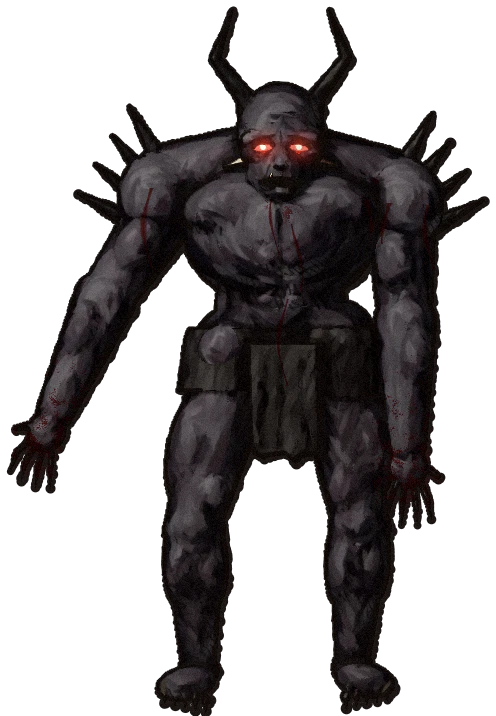
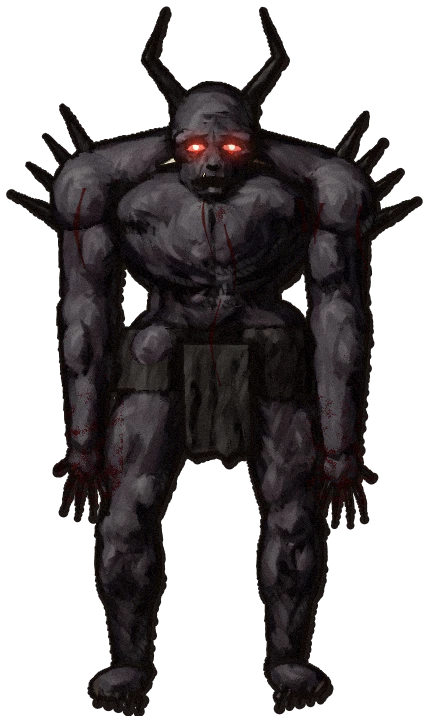
예티·키르뒤 벌어진 팔도 내림
Claude-Session: https://claude.ai/code/session_014cu4eVXMELds87UQUvCgPs

diff --git a/docs/ASSUMPTIONS.md b/docs/ASSUMPTIONS.md
@@ -335,7 +335,7 @@
 | UI6 | desc_ko가 없는 스킬(정수판 대부분)은 대상·피해 유형·거는 상태·재사용을 데이터에서 뽑아 설명줄에 보인다 | 정수 스킬이 무엇을 하는지 알 수 없었다 | `SkillBrief` |
 | UI7 | **전투 화면 = 피어 앤 헝거식 정면 구도**(사용자 요청 2026-10-15, 첨부 스크린샷 4장): 좌우로 마주 보던 카드를 없애고, 어둠 속 빛 웅덩이 위 가운데에 적이 정면으로(덩치 = 크기^0.5, 많으면 함께 줄임), 아래 앞줄에 아군이 뒷모습으로 선다(가운데는 비우고 양옆으로, 다리는 아래 창에 가린다). 아래 창 = 왼쪽 명령 4칸(공격·스킬·방어·아이템) + 오른쪽 파티 창(이름·상태·생명력·영혼력 — 원작 게임의 체력·이성 자리). **행동 정하기(사용자 결정 2026-10-15 "1번 진행")**: 아군 차례가 왔는데 그 사람의 정해 둔 행동이 없으면, 그때 행동을 정하지 않은 아군(직접 조종하는 사람) 전원의 행동을 파티 창 순서대로 먼저 고른다(고르는 사람의 줄·발밑이 밝고, 정한 행동은 그 줄에 "공격 → 고블린 A"처럼 남는다, 명령 칸에서 뒤로 = 앞사람 다시). 다 정하면 순서는 CTB(민첩) 그대로 각자 차례가 올 때 정해 둔 행동을 한다 — 빠른 사람이 한 번 더 차례를 받으면 그 사람만 다시 정한다. 그때 와서 안 되는 행동은 같은 스킬을 다른 적에게 → 기본 공격 → 방어(소환수는 AI 그대로). 지금은 탐험가 혼자라 겉보기는 같고, 동료가 생기면 차이가 난다. 스킬·아이템·대상은 오른쪽 창이 목록(2×3)으로 바뀌고, 대상은 무대에서 발밑 금빛 고리 — 무대의 적을 직접 눌러도 된다. **도주는 스킬 목록 맨 끝**(성공 확률 표시). 적 이름은 머리 위, 생명력은 발밑 가는 막대. 전투 안내는 위 가운데에 최근 두 줄(잠깐 뒤 사라짐, 탐험 기록에도 남음). 몸은 그림 파일이 없어 `CombatFigure`가 그린다(사람형·짐승·덩어리 — 짙은 윤곽, 한쪽 그늘, 퀭한 눈) — 몬스터 원화가 생기면 바꾼다 | 사용자 요청 | `src/ui/combat/*`, `CommandMenu`, `render.json ui.combat_*` |
 | UI8 | **몬스터 전투 일러스트 = 피어 앤 헝거 몬스터 그림풍**(사용자 요청 2026-10-15, 첨부 그림 7장 — 늑대·털옷 사내·피투성이 시체·바위 피부 거인·까마귀 사내·두건 검사·날개 달린 괴물): 손그림 원화가 없어 생성기로 그린다(`tools/paint_monsters.gd` → `assets/monsters/<id>.webp` 52장 + `index.json` 몸 높이). 방식: 몸을 3D 덩어리(캡슐·타원체·판)로 빚어 근육 사이가 골이 지게 녹여 붙이고(`Clay`), 밝은 살 + 적갈색 그늘의 3~4단 붓 칠 띠 · 가려진 경계와 골의 잉크 선 · 어두운 곳 펜 빗금(`Render`) → 털 붓결(`Fur`)·피·때(`Finish`). 자세는 넓은 보폭·체중 실은 다리·늘어뜨린 팔(참고 그림의 시체·까마귀 사내처럼), 네발짐승은 다가오는 3/4 정면(참고 늑대). 원작에 모습 묘사가 없는 몬스터는 이름·데이터 색·크기에서 모습을 정했다(예: 블라터 = 뿔 투구의 저주받은 기사, 드레드피어 = 날개·뿔·몸에 박힌 눈, 웜스톤 = 이빨 아가리의 바위 벌레). 화면에서는 무대가 정한 키를 그림 속 몸 높이(들어 올린 무기·뿔 제외)에 맞춰 줄이고 발을 바닥선에 둔다. 그림이 없는 몬스터는 예전처럼 `CombatFigure` 도형 | 사용자 요청. 이 환경엔 그림 생성 AI·원화가 없다 | 설계 한 항목 = `tools/monster_art/Specs.gd`·`Specs2.gd`의 id 한 줄 → `godot --headless --path . --script res://tools/paint_monsters.gd -- --only=<id>`. 손그림 원화가 생기면 같은 경로에 덮어쓰고 `index.json`의 몸 높이를 고친다 |
-| UI10 | **팔 내림·계층군주 다시 그림**(사용자 요청 2026-10-16): ① 한쪽 팔을 치켜들거나 벌린 9종(카툼바·예티·블라터·고블린 폭탄병·아이언 리자드맨·타룬바스·캠보르미어·고블린 광부·키르뒤)은 그 팔을 몸 옆에 붙여 곧게 내렸다(새 팔 자세 `rest`, 무기를 든 팔은 그대로). ② 드레드피어는 "소환되면 끝장이다 싶은 위압감"이 나도록 첨부 그림(거대한 상반신·털 목도리·눈가린 얼굴·뿔·까마귀 머리·배의 얼굴·날개·아래가 연기로 사라짐)을 따라 전용 생성기 `Lord.gd`로 다시 그렸다 — 사람형 뼈대를 쓰지 않는다. 몸 높이 = 그림 높이 × 0.8(뿔·날개 끝 제외)이라 전투 무대에서 위 안내 줄 뒤로 뿔·날개가 넘치고 날개가 무대 양쪽을 덮는다 | 사용자 요청 | 팔: `Specs.gd`·`Specs2.gd`의 `arm_l`/`arm_r`(`rest` ↔ 예전 값). 드레드피어: `Specs2.gd` `dreadfear`(색·새 머리 수) + `Lord.gd`(모양), 크기 `Specs.body_height`의 `"lord"` 비율 |
+| UI10 | **팔 내림·계층군주 다시 그림**(사용자 요청 2026-10-16): ① 한쪽 팔을 치켜들거나 벌린 9종(카툼바·예티·블라터·고블린 폭탄병·아이언 리자드맨·타룬바스·캠보르미어·고블린 광부·키르뒤)은 그 팔을 몸 옆에 붙여 곧게 내렸다(새 팔 자세 `rest`, 무기를 든 팔은 그대로). 예티·키르뒤는 치켜든 팔과 벌어진 팔이 하나씩이라 두 팔 모두 내렸다(사용자 지적 "벌어진 팔이 그대로"). ② 드레드피어는 "소환되면 끝장이다 싶은 위압감"이 나도록 첨부 그림(거대한 상반신·털 목도리·눈가린 얼굴·뿔·까마귀 머리·배의 얼굴·날개·아래가 연기로 사라짐)을 따라 전용 생성기 `Lord.gd`로 다시 그렸다 — 사람형 뼈대를 쓰지 않는다. 몸 높이 = 그림 높이 × 0.8(뿔·날개 끝 제외)이라 전투 무대에서 위 안내 줄 뒤로 뿔·날개가 넘치고 날개가 무대 양쪽을 덮는다 | 사용자 요청 | 팔: `Specs.gd`·`Specs2.gd`의 `arm_l`/`arm_r`(`rest` ↔ 예전 값). 드레드피어: `Specs2.gd` `dreadfear`(색·새 머리 수) + `Lord.gd`(모양), 크기 `Specs.body_height`의 `"lord"` 비율 |
 | UI9 | **전투 무대 크기**(사용자 요청 2026-10-16 "작은 건 작게 큰 건 크게, 보스는 크게크게"): 무대 키 = 사람 키(무대 높이 × `combat_enemy_height` 0.4) × 몬스터 `size`(전에는 √size라 고블린 0.7이 사람의 84%였다 → 70%). 보스 등급(`combat_boss_ranks` — 수호자·중간 보스·계층군주·변종 수호자)은 크기와 상관없이 위 안내 줄(72px) 바로 아래까지 — 사람 키의 약 2배, 치켜든 무기·뿔은 위로 넘쳐도 된다(이름표는 화면 안으로 당김). 덩치 큰 일반 몬스터는 위 안내 줄 자리(96px)를 남긴다. 적이 서는 바닥선은 무대 높이의 92%(아래 창 바로 위), 아군 뒷모습은 조금 더 아래로(`combat_party_sink` 100). 같은 날 시도한 "싸울 자세"(웅크림·내디딤·겨눔)는 사용자 결정으로 되돌렸다 — 그림은 UI8 그대로 | 사용자 요청 | `render.json ui.combat_enemy_height`·`combat_enemy_size_exp`(1 = 비례, 0.5 = 예전)·`combat_boss_height`·`combat_boss_top_room`·`combat_boss_head_room`·`combat_boss_ranks`·`combat_enemy_floor`·`combat_party_sink` |
 
 ## 플레이 감사 수정 (2026-10-14)

diff --git a/docs/PROGRESS.md b/docs/PROGRESS.md
@@ -4,7 +4,7 @@
 
 ## 현재 상태 (2026-10-14)
 
-- **팔 내림 9종 · 드레드피어 다시 그림 (2026-10-16, 사용자 요청 + 첨부 그림)**: ① 카툼바·예티·블라터·고블린 폭탄병·아이언 리자드맨·타룬바스·캠보르미어·고블린 광부·키르뒤의 치켜들거나 벌린 한쪽 팔을 몸 옆에 붙여 내림(`Rig` 새 팔 자세 `rest`). ② 계층군주 드레드피어("잡병1 같다" → 첨부 그림처럼 위압적으로): 전용 생성기 `tools/monster_art/Lord.gd` — 화면을 채우는 거대한 상반신, 굵은 털 목도리와 거기서 돋은 빛나는 눈의 까마귀 머리 7, 창백한 머리카락에 눈을 가린 얼굴, 바깥으로 뻗다 치솟는 황소 뿔, 가슴·배의 이빨 드러낸 얼굴, 바닥까지 늘어진 팔, 손가락뼈 사이 막이 오목하게 처지고 찢어진 박쥐 날개, 아래는 검은 연기. 몸 높이 = 그림 × 0.8이라 전투 무대에서 뿔·날개가 위 안내 줄 뒤로 넘치며 무대를 덮는다. 가정 UI10. check.sh 통과 + 전투 캡처(드레드피어) 확인.
+- **팔 내림 9종 · 드레드피어 다시 그림 (2026-10-16, 사용자 요청 + 첨부 그림)**: ① 카툼바·예티·블라터·고블린 폭탄병·아이언 리자드맨·타룬바스·캠보르미어·고블린 광부·키르뒤의 치켜들거나 벌린 한쪽 팔을 몸 옆에 붙여 내림(`Rig` 새 팔 자세 `rest` — 예티·키르뒤는 벌어진 팔까지 두 팔 모두). ② 계층군주 드레드피어("잡병1 같다" → 첨부 그림처럼 위압적으로): 전용 생성기 `tools/monster_art/Lord.gd` — 화면을 채우는 거대한 상반신, 굵은 털 목도리와 거기서 돋은 빛나는 눈의 까마귀 머리 7, 창백한 머리카락에 눈을 가린 얼굴, 바깥으로 뻗다 치솟는 황소 뿔, 가슴·배의 이빨 드러낸 얼굴, 바닥까지 늘어진 팔, 손가락뼈 사이 막이 오목하게 처지고 찢어진 박쥐 날개, 아래는 검은 연기. 몸 높이 = 그림 × 0.8이라 전투 무대에서 뿔·날개가 위 안내 줄 뒤로 넘치며 무대를 덮는다. 가정 UI10. check.sh 통과 + 전투 캡처(드레드피어) 확인.
 
 - **전투 크기 비율 (2026-10-16, 사용자 요청 "작은 건 작게·큰 건 크게, 보스는 크게")**: `BattleStage` 키 = 사람 키(무대 40%) × 몬스터 크기(비례 — 전에는 √크기), 보스 등급(`combat_boss_ranks`)은 크기와 상관없이 위 안내 줄 바로 아래까지(사람의 약 2배, 치켜든 무기·뿔은 넘쳐도 됨), 바닥선 92%, 큰 보스 이름표는 화면 안으로(`BattlerView`), 아군 뒷모습 조금 아래로. 함께 했던 몬스터 "싸울 자세" 다시 그리기는 사용자 결정으로 되돌림(그림은 2026-10-15 그대로). 가정 UI9. check.sh 통과 + 전투 캡처(작은 무리·큰 몬스터·보스) 확인.
 

diff --git a/README.md b/README.md
@@ -77,7 +77,7 @@ Noto Sans KR Regular(SIL OFL 1.1, `assets/fonts/OFL.txt`)를 번들했습니다.
 
 | # | 할 일 | 기대 결과 |
 |---|---|---|
-| 1 | 예티·고블린 광부·고블린 폭탄병·아이언 리자드맨과 싸운다 | 무기를 들지 않은 팔이 몸 옆에 붙어 곧게 내려와 있다 |
+| 1 | 예티·고블린 광부·고블린 폭탄병·아이언 리자드맨과 싸운다 | 무기를 들지 않은 팔이 몸 옆에 붙어 곧게 내려와 있다(예티·키르뒤는 두 팔 모두) |
 | 2 | F1 → "계층군주 소환(드레드피어)" → 전투 | 날개가 무대 양쪽을 덮고 뿔이 위 안내 줄 뒤로 넘친다. 눈가린 얼굴·털 목도리의 까마귀 머리(빛나는 눈)·배의 이빨 얼굴이 보이고 아래는 연기로 사라진다 |
 
 ### 전투 크기 비율 (2026-10-16)
